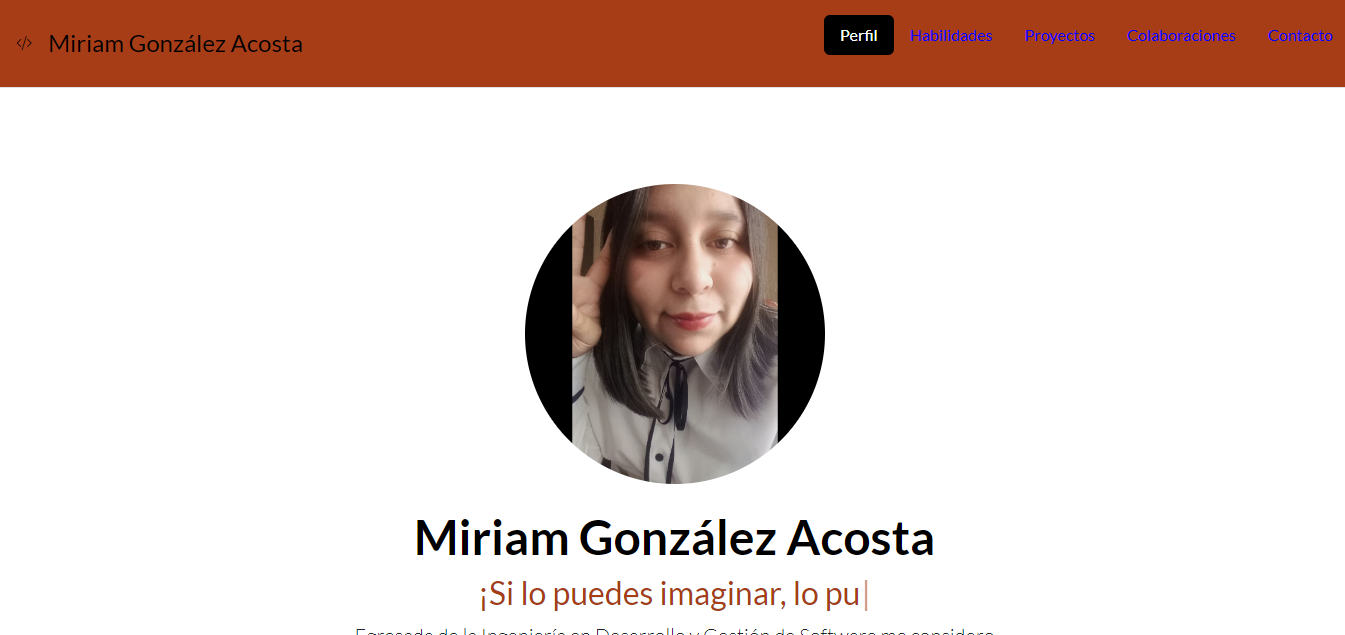
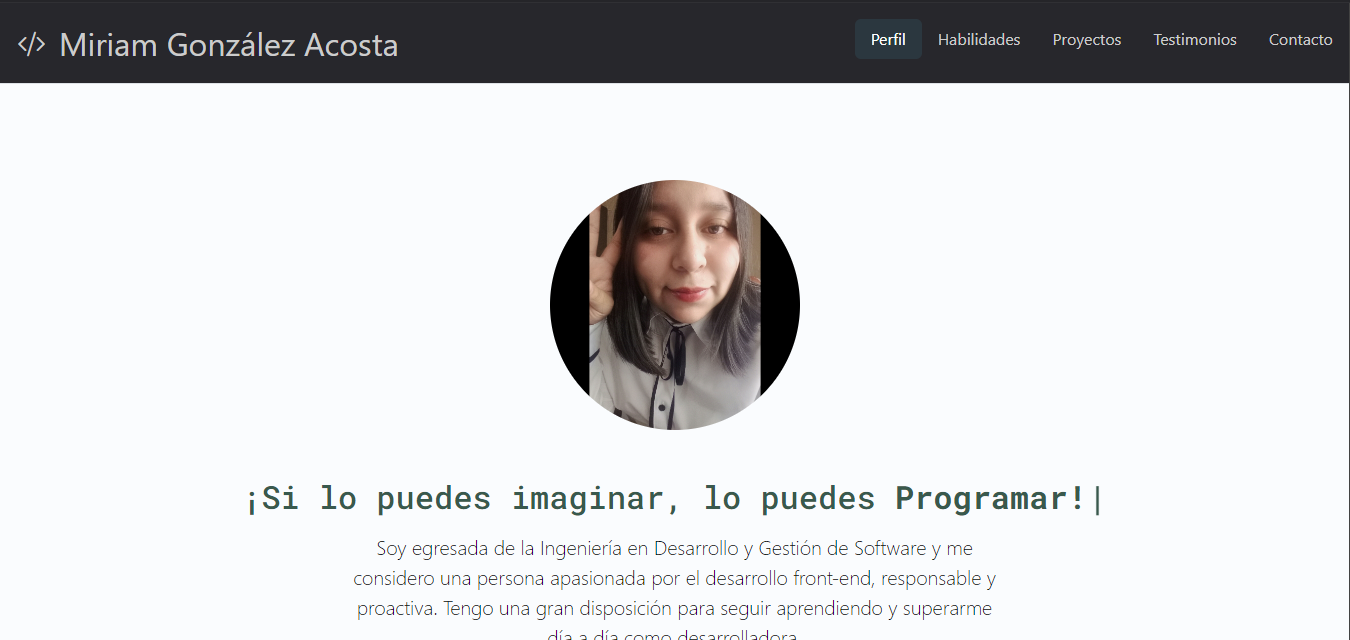
Add files via upload

Changed region(s): [[0.1874, 0.2693, 0.8119, 1.0], [0.0, 0.0, 1.0, 1.0]]

diff --git a/index.html b/index.html
@@ -34,22 +34,20 @@
       <li class="nav-item"><a href="#habilidades" class="nav-link habilidades">Habilidades</a>
       </li>
       <li class="nav-item"><a href="#proyectos" class="nav-link">Proyectos</a></li>
-      <li class="nav-item"><a href="#testimonios" class="nav-link">Colaboraciones</a></li>
+      <li class="nav-item"><a href="#testimonios" class="nav-link">Testimonios</a></li>
       <li class="nav-item"><a href="#contacto" class="nav-link">Contacto</a></li>
     </ul>
   </header>
   <main>
     <!-- Perfil -->
+  <div class="perfil">
     <div class="hero">
       <div class=" perfil px-4 py-5 my-5 text-center" id="perfil">
         <img class="d-block mx-auto mb-5 rounded-circle" src="assets/fotoPerfil.png" alt="" width="250">
         <!-- <h1 class="display-5 fw-bold text-body-emphasis">Acerca de mi</h1> -->
-        <h2 id="app" class="text-transition mb-3"></h2>
+        <h2 id="app" class="mb-3"></h2>
         <div class="col-lg-6 mx-auto">
-          <p class="lead mb-4">Egresada de la Ingeniería en Desarrollo y Gestión de Software me considero una persona
-            con una gran
-            pasión por el desarrollo Front-end, responsable y proactiva. Con disposición por seguir aprendiendo y
-            superarme día a día como persona y desarrolladora front-end.</p>
+          <p class="lead mb-4">Soy egresada de la Ingeniería en Desarrollo y Gestión de Software y me considero una persona apasionada por el desarrollo front-end, responsable y proactiva. Tengo una gran disposición para seguir aprendiendo y superarme día a día como desarrolladora.</p>
           <div class="d-grid gap-2 d-sm-flex justify-content-sm-center">
             <button type="button" class="btn btn-outline-secondary btn-lg px-4 boton-cv"><a target="_blank"
                 class="text-decoration-none"
@@ -59,6 +57,7 @@
         </div>
       </div>
     </div>
+  </div>
     <!-- Habilidades -->
     <div id="habilidades">
       <div class="habilidades container px-4 py-5" id="icon-grid habilidades">
@@ -66,9 +65,9 @@
 
         <div class="row row-cols-1 row-cols-md-2 align-items-md-center g-5 py-5">
           <div class="col d-flex flex-column align-items-start gap-2">
-            <p class="text-body">Me desempeño principalmente como desarrolladora frontend, donde he adquirido
+            <p class="text-body texto">Me desempeño principalmente como desarrolladora front-end, donde he adquirido
               experiencia utilizando diferentes tecnologías. Sin embargo, también poseo conocimientos en desarrollo
-              backend, lo que me permite comprender el flujo completo de una aplicación. De igual forma, he trabajado
+              back-end, lo que me permite comprender el flujo completo de una aplicación. De igual forma, he trabajado
               con diversas herramientas y tecnologías tanto para frontend como para backend.</p>
           </div>
 
@@ -76,31 +75,88 @@
             <div class="row row-cols-1 row-cols-sm-2 g-4">
               <div class="col d-flex flex-column gap-2">
                 <i class="bi bi-filetype-html fs-1"></i>
-                <h4 class="fw-semibold mb-0 text-body-emphasis">Desarrollo front-end</h4>
-                <p class="text-body-secondary">HTML, CSS y JavaScript son las prinipales tecnoligías que utilizo en el
+                <h4 class="fw-semibold mb-0">Desarrollo Front-end</h4>
+                <p class="text-body-secondary texto">HTML, CSS y JavaScript son las principales tecnologías que utilizo en el
                   desarrollo front-end.
                 </p>
               </div>
 
               <div class="col d-flex flex-column gap-2">
                 <i class="bi bi-braces fs-1"></i>
-                <h4 class="fw-semibold mb-0 text-body-emphasis">Desarrollo front-end</h4>
-                <p class="text-body-secondary">Algunos de los lenguajes de programación en los que he desarrollado
-                  aplicaciones son C#, Java y PHP.</p>
+                <h4 class="fw-semibold mb-0">Desarrollo Back-end</h4>
+                <p class="text-body-secondary texto">Algunos de los lenguajes de programación con los que he desarrollado aplicaciones son C#, Java y PHP.</p>
               </div>
 
               <div class="col d-flex flex-column gap-2">
                 <i class="bi bi-bootstrap fs-1"></i>
-                <h4 class="fw-semibold mb-0 text-body-emphasis">Bootstrap</h4>
-                <p class="text-body-secondary">Bootstrap es un framework que me gusta implementar debido a su facilidad
-                  de uso y la rapidez con la que permite desarrollar aplicaciones responsivas.</p>
+                <h4 class="fw-semibold mb-0">Bootstrap</h4>
+                <p class="text-body-secondary texto">Bootstrap es un framework que me gusta implementar debido a su facilidad de uso y a la rapidez con la que me permite desarrollar aplicaciones responsivas.</p>
               </div>
 
               <div class="col d-flex flex-column gap-2">
                 <i class="bi bi-github fs-1"></i>
-                <h4 class="fw-semibold mb-0 text-body-emphasis">GitHub</h4>
-                <p class="text-body-secondary">GitHub es la herramienta que me gusta implementar no solo para almacenar
-                  proyectos sino también para controlar las versiones de los mismos.</p>
+                <h4 class="fw-semibold mb-0">GitHub</h4>
+                <p class="text-body-secondary texto">GitHub es la herramienta principal que utilizo para almacenar proyectos y controlar sus versiones.</p>
+              </div>
+            </div>
+          </div>
+        </div>
+      </div>
+    </div>
+    <!-- Proyectos -->
+    <div id="proyectos" class="proyectos container mt-5">
+      <h2 class="pb-2 border-bottom">Proyectos</h2>
+      <div class="row row-cols-1 row-cols-sm-2 row-cols-md-3 g-3">
+        <div class="col mt-5">
+          <div class="card shadow-sm">
+            <img class="bd-placeholder-img card-img-top" src="assets/proyectoPinterest.png" alt="">
+            <div class="card-body">
+              <h3>Clon de pinterest</h3>
+              <p class="card-text texto">Página creada en el Bootcamp de Tecnolochicas Pro, usando HTML y CSS, que representa un clon de Pinterest.</p>
+              <div class="d-flex justify-content-between align-items-center">
+                <div class="btn-group">
+                  <button type="button" class="btn btn-sm btn-outline-secondary btn-proyecto"><a target="_blank"
+                      href="https://pinterest-clon-black.vercel.app/">Ver</a></button>
+                  <button type="button" class="btn btn-sm btn-outline-secondary btn-proyecto"><a target="_blank"
+                      href="https://github.com/MiriamGonzalez08/pinterest-clon.git">GitHub</a></button>
+                </div>
+                <small class="text-body-secondary">HTML, CSS</small>
+              </div>
+            </div>
+          </div>
+        </div>
+        <div class="col mt-5">
+          <div class="card shadow-sm">
+            <img class="bd-placeholder-img card-img-top" src="assets/proyectoBts.png" alt="">
+            <div class="card-body">
+              <h3>Info BTS</h3>
+              <p class="card-text texto">Esta página se desarrolló como proyecto de la universidad usando HTML y CSS. Brinda información sobre la banda de K-pop BTS.</p>
+              <div class="d-flex justify-content-between align-items-center">
+                <div class="btn-group">
+                  <button type="button" class="btn btn-sm btn-outline-secondary btn-proyecto"><a target="_blank"
+                      href="https://bts-page-three.vercel.app/">Ver</a></button>
+                  <button type="button" class="btn btn-sm btn-outline-secondary btn-proyecto"><a target="_blank"
+                      href="https://github.com/MiriamGonzalez08/btsPage.git">GitHub</a></button>
+                </div>
+                <small class="text-body-secondary">HTML, CSS</small>
+              </div>
+            </div>
+          </div>
+        </div>
+        <div class="col mt-5">
+          <div class="card shadow-sm">
+            <img class="bd-placeholder-img card-img-top" src="assets/tareas.png" alt="">
+            <div class="card-body">
+              <h3>App de Tareas</h3>
+              <p class="card-text texto">Aplicación de tareas creada en el Bootcamp de Tecnolochicas Pro, utilizando tecnologías como JavaScript, HTML y CSS.</p>
+              <div class="d-flex justify-content-between align-items-center">
+                <div class="btn-group">
+                  <button type="button" class="btn btn-sm btn-outline-secondary btn-proyecto"><a target="_blank"
+                      href="https://tareas-black.vercel.app/">Ver</a></button>
+                  <button type="button" class="btn btn-sm btn-outline-secondary btn-proyecto"><a target="_blank"
+                      href="https://github.com/MiriamGonzalez08/Tareas.git">GitHub</a></button>
+                </div>
+                <small class="text-body-secondary">HTML,CSS, JS</small>
               </div>
             </div>
           </div>
@@ -108,17 +164,17 @@
       </div>
     </div>
     <!-- Carrusel testimonios -->
-    <div id="testimonios" class="testimonios container mt-5">
+    <div id="testimonios" class="testimonios container mt-5 ">
       <h2 class="pb-2 border-bottom">Testimonios</h2>
       <div id="carouselExampleAutoplaying" class="carousel slide" data-bs-ride="carousel">
         <div class="carousel-inner">
           <div class="carousel-item active">
             <div class="d-flex justify-content-center">
               <!-- Inicio card -->
-              <div class="card border-0" style="width: 20rem;">
+              <div class="card card-testimonio border-0" style="width: 20rem;">
                 <img src="assets/perfil1.png" class="img-card card-img-top rounded-circle mb-2"
                   alt="imagen de testimonio">
-                <h2 class="card-title text-center mb-2">Ing. Anel Montes</h2>
+                <h3 class="card-title text-center mb-2">Ing. Anel Montes</h3>
                 <h6 class="card-subtitle mb-3 text-center text-body-secondary">Mentora en Tecnolochicas Pro</h6>
                 <div class="card-body">
                   <p class="card-text texto">Miriam muestra un rápido progreso en la adquisición de habilidades técnicas
@@ -134,10 +190,10 @@
           <div class="carousel-item">
             <div class="d-flex justify-content-center">
               <!-- Inicio card -->
-              <div class="card border-0" style="width: 18rem;">
+              <div class="card card-testimonio border-0" style="width: 18rem;">
                 <img src="assets/perfil2.jpeg" class="card-img-top rounded-circle mb-2" alt="imagen de testimonio"
                   width="100">
-                <h2 class="card-title text-center mb-3">María del Rayo Ponce Vargas</h2>
+                <h3 class="card-title text-center mb-3">María del Rayo Ponce Vargas</h3>
                 <h6 class="card-subtitle mb-2 text-center text-body-secondary">Estudiante del bootcamp Tecnolochicas Pro
                 </h6>
                 <div class="card-body">
@@ -152,9 +208,9 @@
           <div class="carousel-item">
             <div class="d-flex justify-content-center">
               <!-- Inicio card -->
-              <div class="card border-0" style="width: 18rem;">
+              <div class="card card-testimonio border-0" style="width: 18rem;">
                 <img src="assets/perfil3.jpeg" class="card-img-top rounded-circle" alt="imagen de testimonio">
-                <h2 class="card-title text-center mb-2">Araceli González Luna</h2>
+                <h3 class="card-title text-center mb-2">Araceli González Luna</h3>
                 <h6 class="card-subtitle mb-2 text-center text-body-secondary">Estudiante del bootcamp Tecnolochicas Pro
                 </h6>
                 <div class="card-body">
@@ -183,9 +239,9 @@
     <!-- Contacto -->
     <div id="contacto" class="px-4 py-5 my-5 text-center">
       <i class="bi bi-envelope-check fs-1"></i>
-      <h1 class="display-5 fw-bold text-body-emphasis">Contactame</h1>
+      <h1 class="display-5 fw-bold">Contactame</h1>
       <div class="col-lg-6 mx-auto">
-        <p class="lead mb-4">Sé que podemos crear grandes proyectos, escribeme</p>
+        <p class="lead mb-4">Sé que podemos crear grandes proyectos, escribeme.</p>
         <div class="d-grid gap-2 d-sm-flex justify-content-sm-center">
           <a href="mailto:mimigonzalez.mg64@gmail.com">
             <button id="btn-contacto" type="button" class="btn btn-lg px-4 gap-3">Enviar correo</button>
@@ -205,7 +261,7 @@
             class="bi bi-github fs-4"></i></a>
       </li>
     </ul>
-    <p class="text-center">Creado por Miriam González Acosta en el bootcamp de <a class="text-decoration-none"
+    <p class="text-center">Creado por Miriam González Acosta en el bootcamp de <a target="_blank" class="text-decoration-none"
         href="https:tecnolochicas.mx/"> Teconolochicas Pro</a></p>
   </footer>
 

diff --git a/style.css b/style.css
@@ -1,16 +1,32 @@
 * {
   font-family: Raleway, Roboto+Mono;
+
 }
 
 header {
   background-color: #27272c;
 }
+body{
+  background-color: #fafcfe;
+}
+h1{
+  color: #ccc;
+}
+h2{
+  color: #2b373f;
+}
+h4{
+  color: #2a2f36;
+}
+p{
+  color: #000;
+}
 
-.nombre-m{
+.nombre-m {
   color: #ccc;
 }
 
-.nombre-m:hover{
+.nombre-m:hover {
   color: var(--clr);
   letter-spacing: 0.2rem;
   animation: texto 3s infinite;
@@ -26,53 +42,58 @@ header {
 }
 
 .nav-item a:hover {
-  color: #39594D;
+  color: #39594d;
+  
 }
 
 /* color para boton perfil */
 #boton-perfil {
-  background-color: #31325c;
+  background-color: #2b373f;
+  /* background-color: #31325c; */
 }
 
 #boton-perfil:hover {
-  background-color: #023059;
+  background-color: #39594D;
 }
 
- #app{
-    color: #27272c;
-    font-family: "Roboto Mono";
-}
-
-.text-transition {
-  color: #000;
+#app {
+  color: #39594d;
   font-family: "Roboto Mono";
 }
 
 .boton-cv {
-  background-color: green;
+  background-color: #2b373f;
+  color: rgb(204, 203, 206);
+}
+
+.boton-cv:hover{
+  background-color: #27272c;
   color: rgb(204, 203, 206);
 }
 
 .boton-cv a {
-  color: rgb(204, 203, 206);
+  color: #ccc;
 }
 
-/* #habilidades {
-  background-color: #A63D17;
-  color: beige;
-} */
+#habilidades {
+  color: #39594d;
+} 
 
 .btn-proyecto {
-  background-color: #A63D17;
+  background-color: #2b373f;
 }
 
 .btn-proyecto a {
   text-decoration: none;
-  color: aliceblue;
+  color: #ccc;
 }
-
+/* .card-testimonio{
+  background-color: #2b3f47;
+} */
 .card .card-title {
-  color: #A63D17;
+  color: #39594d;
+  /* font-family: "Roboto Mono"; */
+  font-weight: bold;
 }
 
 .texto {
@@ -80,34 +101,35 @@ header {
 }
 
 #contacto {
-  background-color: red;
-  color: #A63D17;
+  background-color: #2b373f;
+  color: #39594D;
 }
 
 #contacto p {
-  color: blueviolet;
+  color: #ccc;
 }
 
 #btn-contacto {
-  background-color: aqua;
+  background-color: #39594D;
   color: antiquewhite;
 }
 
 #btn-contacto:hover {
-  background-color: black;
+  background-color: #27272c;
 }
 
 footer li a i {
-  color: green;
+  color: #39594D;
 }
 
 footer p {
-  color: green;
+  color: #39594D;
 }
 
 footer p a {
   text-decoration: none;
-  color: greenyellow;
+  color: #2b3f47;
+  font-weight: bold;
 }
 
 
